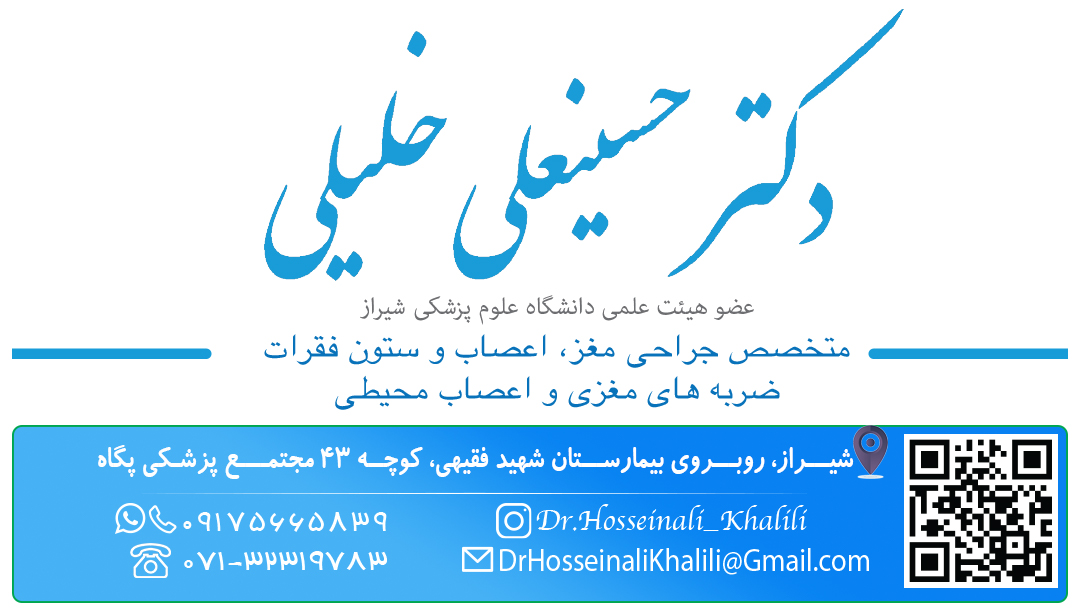
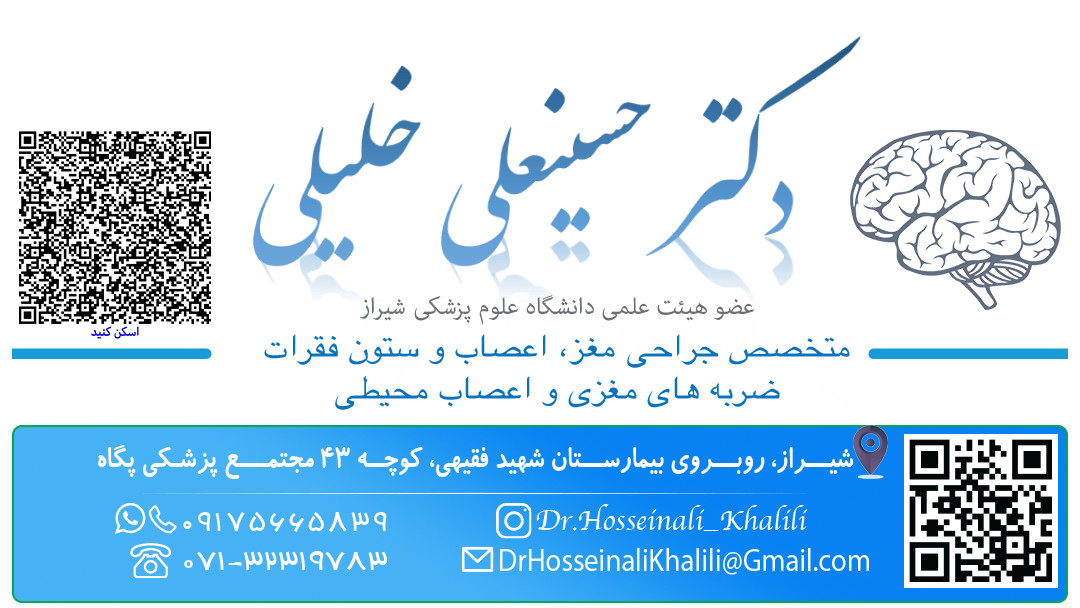
Add new ecard

Changed region(s): [[0.3972, 0.0312, 1.0, 0.5], [0.0, 0.1562, 0.4278, 0.5625], [0.3667, 0.0625, 0.3972, 0.1562]]

diff --git a/ecard.md b/ecard.md
@@ -6,7 +6,7 @@ categories: [visit]
 tags: [مراجعه, تماس, آدرس]
 ---
 
-### برای دریافت لینک اسکن کنید.
+### اسکن کنید.
 
  <!-- Slideshow container -->
 <div class="slideshow-container">
@@ -27,6 +27,11 @@ tags: [مراجعه, تماس, آدرس]
     <img src="{{ site.baseurl }}/images/instagram.jpg" style="width:100%">
   </div>
 
+  <div class="mySlides fade">
+    <div class="numbertext">1 / 3</div>
+    <img src="{{ site.baseurl }}/images/english-ecard.jpg" style="width:100%">
+  </div>
+  
   <!-- Next and previous buttons -->
   <a class="prev" onclick="plusSlides(-1)">&#10094;</a>
   <a class="next" onclick="plusSlides(1)">&#10095;</a>
@@ -59,13 +64,13 @@ tags: [مراجعه, تماس, آدرس]
 .prev, .next {
   cursor: pointer;
   position: absolute;
-  top: 50%;
+  top: 60%;
   width: auto;
   margin-top: -22px;
-  padding: 16px;
+  padding: 5px;
   color: white;
   font-weight: bold;
-  font-size: 18px;
+  font-size: 14px;
   transition: 0.6s ease;
   border-radius: 0 3px 3px 0;
   user-select: none;
